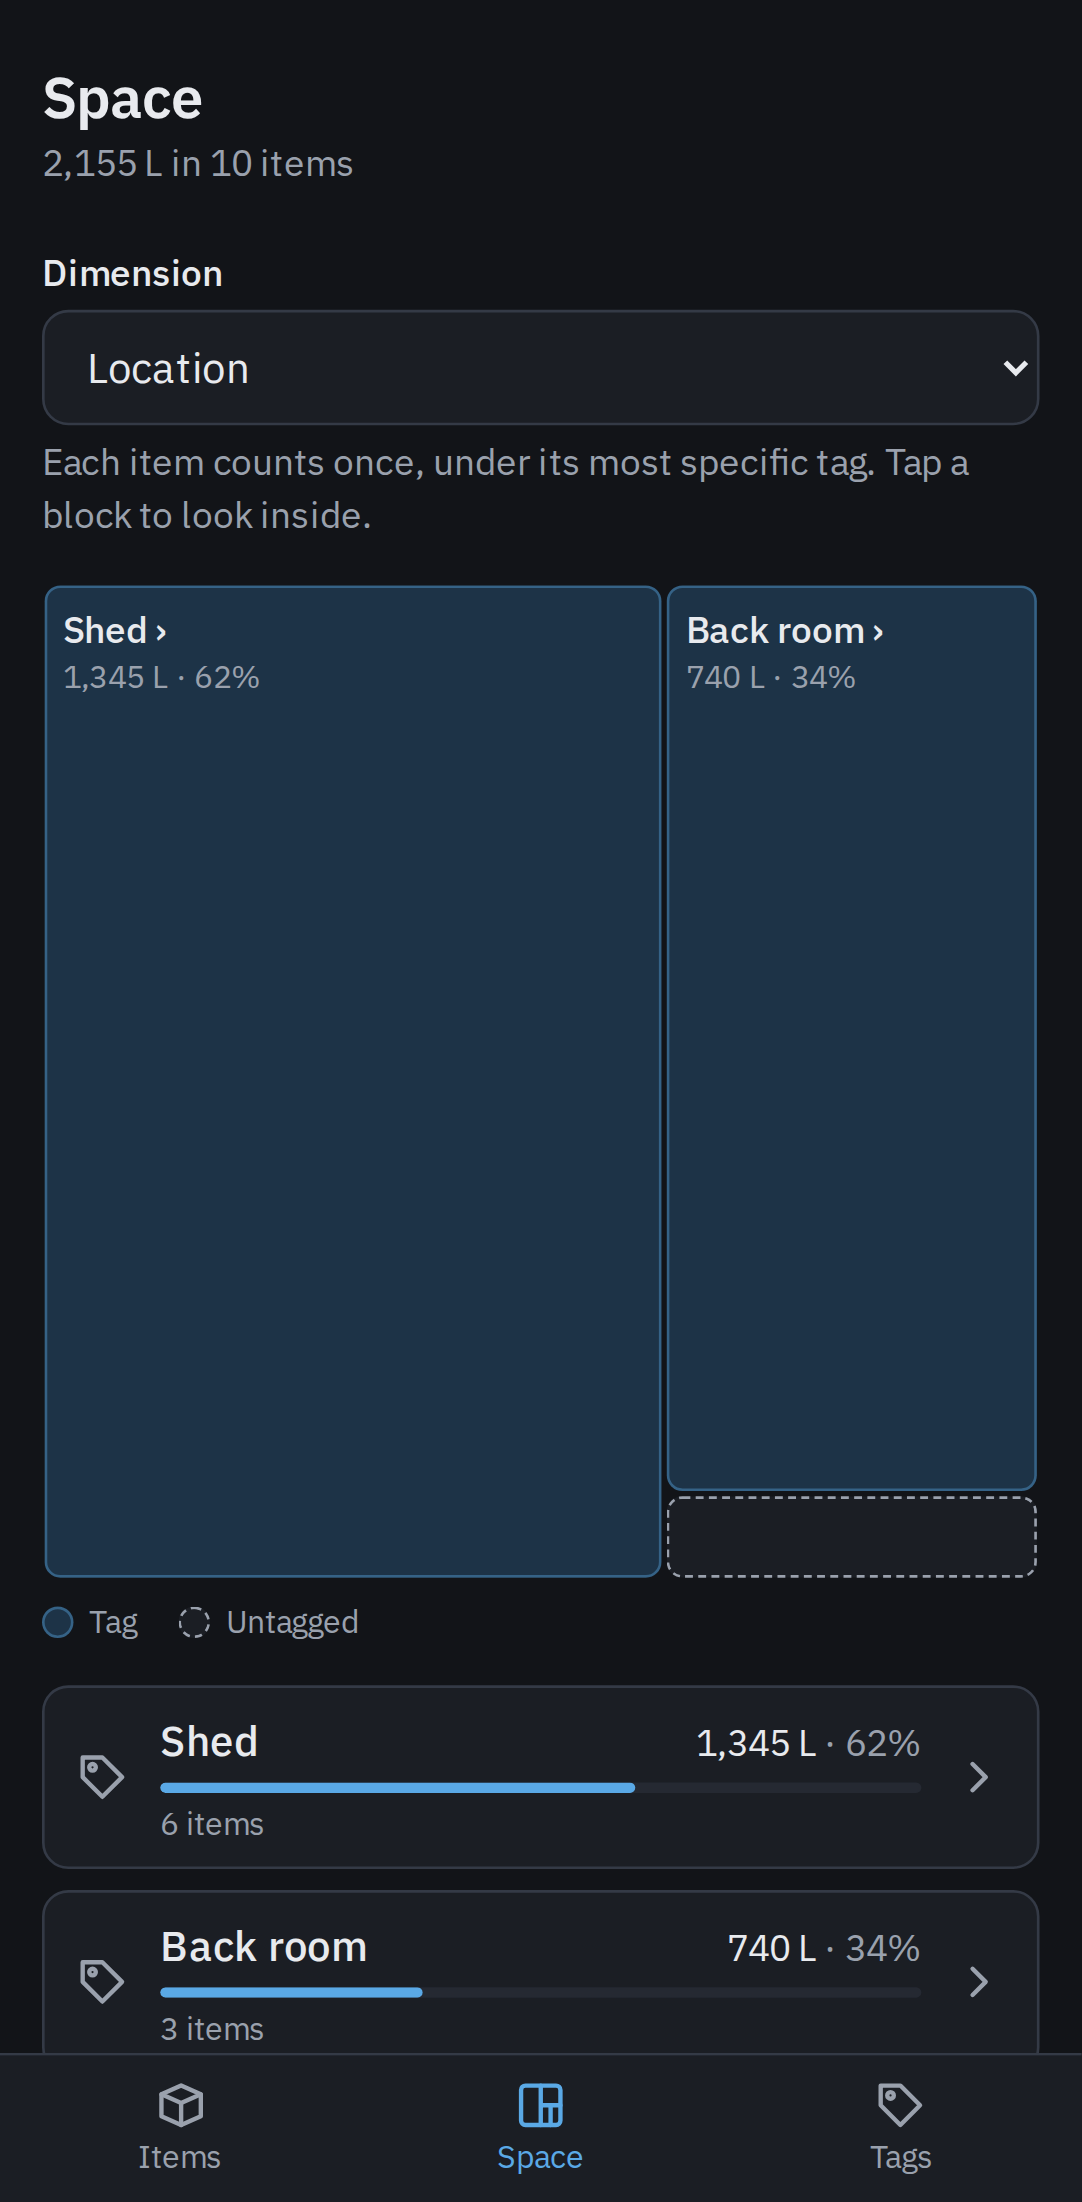
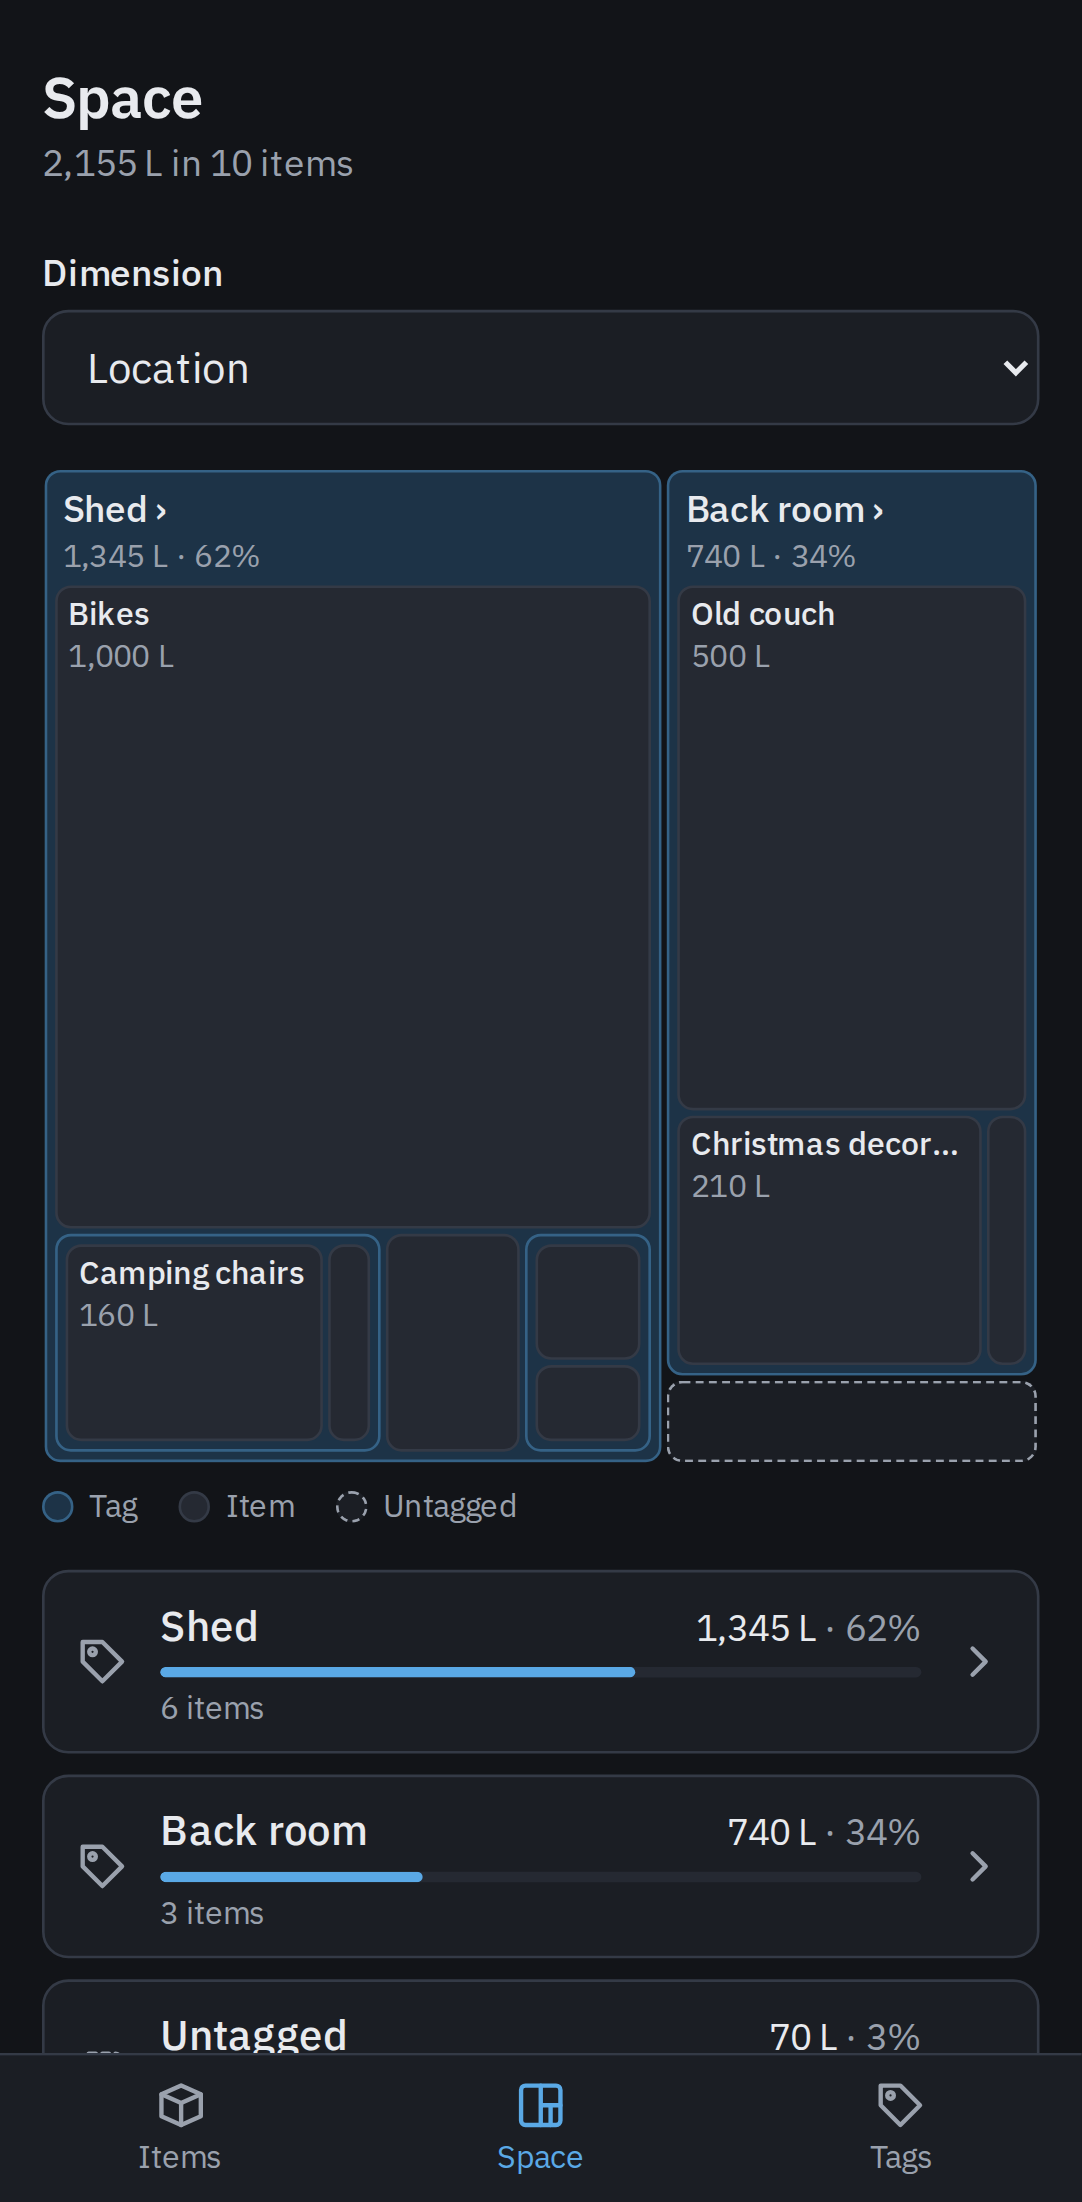
Trim README features and retake the space screenshot

diff --git a/README.md b/README.md
@@ -5,14 +5,13 @@ A self-hosted app for cataloguing what's in your shed or back room, so you can s
 - Add items from your phone with a one-tap size preset, or type the litres
 - Dictate a list with your phone keyboard's microphone; Claude turns it into drafts you check before saving (optional, needs an Anthropic API key)
 - Tag items with nested tags such as `Location › Shed › Shelf 2`, creating them as you type
-- See what takes up the space on a treemap by Location, Type or any other top-level tag, and tap in to drill down; the same totals are listed beneath it
-- See every item ranked by the total space it takes
-- Search by name, note or tag, and filter to any tag and everything inside it
+- See the biggest things at a glance on a treemap by Location, Type or any other top-level tag, and tap in to drill down
+- Search and rank items by the total space they take, filtered to any tag
 - Rename, move and delete tags without losing items
 
 <table>
   <tr>
-    <td><img src="docs/screenshots/space.png" width="200" alt="Treemap of space by Location: Shed 62%, Back room 34%, and a small Untagged block"></td>
+    <td><img src="docs/screenshots/space.png" width="200" alt="Treemap of space by Location: Shed 62% and Back room 34%, with the bikes and the old couch filling most of each, and a small Untagged block"></td>
     <td><img src="docs/screenshots/items.png" width="200" alt="Item list ranked by total space, with tag chips on each item"></td>
     <td><img src="docs/screenshots/add.png" width="200" alt="Add item form with size presets, quantity and tag suggestions"></td>
     <td><img src="docs/screenshots/tags.png" width="200" alt="Tag tree with Location and Type dimensions and item counts"></td>
